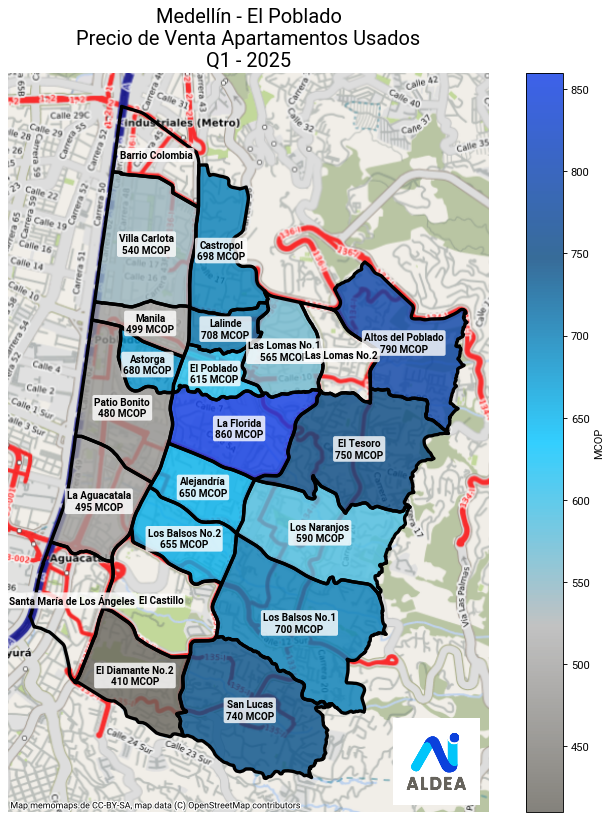
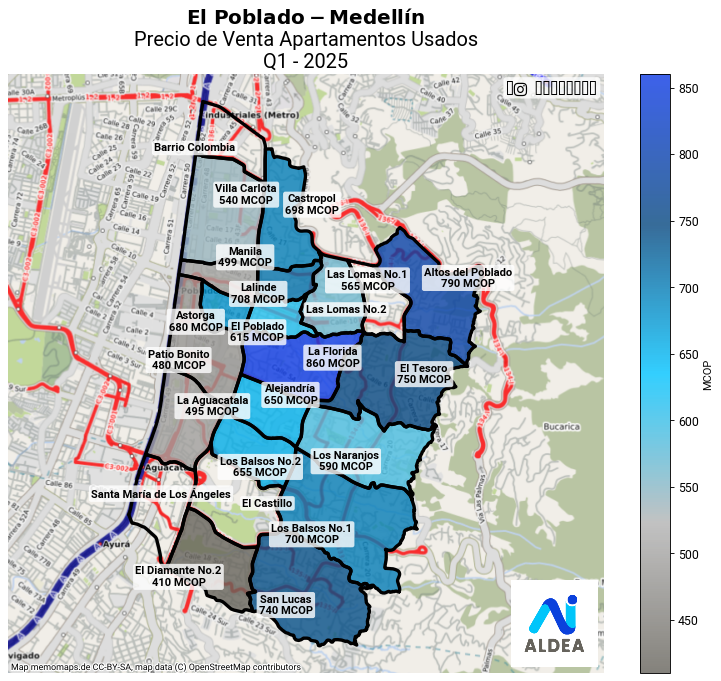
fixin aestetic details of median price poblado

diff --git a/src/DataVisualisation/VisualisationMedianPrice.py b/src/DataVisualisation/VisualisationMedianPrice.py
@@ -11,6 +11,8 @@ import numpy as np
 import matplotlib.ticker as mticker
 from matplotlib.colors import LinearSegmentedColormap
 from matplotlib.offsetbox import OffsetImage, AnnotationBbox
+from adjustText import adjust_text
+import matplotlib.image as mpimg
 
 
 
@@ -174,6 +176,14 @@ plot = gdf_4326_valid.plot(
 # Draw the edges of all neighborhoods (including those without data)
 gdf_4326.plot(facecolor='none', ax=ax, edgecolor='k', linewidth=3)
 
+#making the map square, for instagram
+xlim = ax.get_xlim()
+ylim = ax.get_ylim()
+x_mid = (xlim[1] + xlim[0])/2
+y_range = ylim[1] - ylim[0]
+ax.set_xlim(x_mid-0.5*y_range, x_mid+0.5*y_range)
+
+
 # Add the basemap tiles to the plot
 source = ctx.providers[map_provider]
 ctx.add_basemap(ax, crs=gdf_4326.crs.to_string(), source=source)
@@ -187,7 +197,17 @@ elif property_type == 'Offices':
     property_type_label = 'Oficinas Usadas'
 
 plt.rcParams.update({'axes.titlesize': 18})
-plt.title(f'Medellín - El Poblado\nPrecio de Venta {property_type_label}\nQ{quarter} - {year}')
+# plt.title(f'El Poblado - Medellín\nPrecio de Venta {property_type_label}\nQ{quarter} - {year}')
+title_string = (
+    r'$\bf{' f'El\ Poblado - Medellín' r'}$' + 
+    '\n' +
+    r'Precio de Venta ' f'{property_type_label}' + 
+    '\n' +
+    r'Q' f'{quarter}' r' - ' f'{year}'
+)
+
+
+plt.title(title_string)
 plt.axis('off')
 
 # Format the colorbar to show values in millions of COP
@@ -197,7 +217,29 @@ cbar.yaxis.set_major_formatter(mticker.FuncFormatter(lambda x, _: f'{x/1e6:.0f}'
 for c in cbar.collections:
     c.set_alpha(alpha_value)
 
-# Annotate each neighborhood with its name and median price (if available)
+# Set the size of the numbers in the colorbar
+cbar.tick_params(labelsize=11)
+
+# Adjust colorbar height to match the y-axis range
+cbar = plot.get_figure().axes[-1]
+fig = plot.get_figure()
+# Get position of the main axis and colorbar axis
+ax_pos = ax.get_position()
+cbar_pos = cbar.get_position()
+# Set colorbar height to match the main axis height (ylim)
+cbar.set_position([
+    cbar_pos.x0,
+    ax_pos.y0,
+    cbar_pos.width,
+    ax_pos.height
+])
+
+# Import adjust_text for text overlap prevention
+
+# Create list to store text annotations
+texts = []
+
+# Create annotations for each neighborhood
 for idx, row in gdf_4326.iterrows():
     centroid = row['geometry'].centroid
     neighbourhood_name = row['nombre']
@@ -207,39 +249,67 @@ for idx, row in gdf_4326.iterrows():
         label = f'{neighbourhood_name}\n{value:,.0f} MCOP'
     else:
         label = f'{neighbourhood_name}'
-    ax.annotate(
+    
+    text = ax.text(
+        centroid.x, centroid.y,
         label,
-        (centroid.x, centroid.y),
         color='black',
-        fontsize=9,
+        fontsize=10,
         ha='center',
         va='center',
         fontweight='bold',
         bbox=dict(facecolor='white', alpha=alpha_value, edgecolor='none', boxstyle='round,pad=0.2')
     )
+    texts.append(text)
 
-    # Add a logo to the bottom left of the plot
-    import matplotlib.image as mpimg
+# Adjust text positions to prevent overlap
+adjust_text(
+    texts,
+    force_points=0.2,
+    force_text=0.5,
+    expand_points=(1.2, 1.2),
+    expand_text=(1.2, 1.2),
+    # arrowprops=dict(arrowstyle="-", color='gray', lw=0.5)
+)
 
-    logo_path = 'Inputs/LogoOriginal.png'
-    logo_img = mpimg.imread(logo_path)
-    imagebox = OffsetImage(logo_img, zoom=0.3)  # Adjust zoom as needed
+# Add a logo to the bottom left of the plot
+logo_path = 'Inputs/LogoOriginal.png'
+logo_img = mpimg.imread(logo_path)
+imagebox = OffsetImage(logo_img, zoom=0.3)  # Adjust zoom as needed
 
-    # Position: (x0, y0) in axes fraction coordinates (0,0 is bottom left)
-    ab = AnnotationBbox(
-        imagebox,
-        (0.8, 0.01),  # Adjust as needed for position
-        xycoords='axes fraction',
-        frameon=False,
-        box_alignment=(0, 0)
-    )
-    ax.add_artist(ab)
+# Position: (x0, y0) in axes fraction coordinates (0,0 is bottom left)
+ab = AnnotationBbox(
+    imagebox,
+    (0.845, 0.01),  # Adjust as needed for position
+    xycoords='axes fraction',
+    frameon=False,
+    box_alignment=(0, 0)
+)
+ax.add_artist(ab)
+
+# Add "@AldeaAI" text to top right corner
+# Add Instagram logo (using unicode character) and @AldeaAI text
+ax.text(
+    0.99, 0.99,
+    '\u2002\uf16d  @AldeaAI',  # Unicode for Instagram logo + text
+    transform=ax.transAxes,
+    fontsize=14,
+    fontweight='bold',
+    color='black',
+    ha='right',
+    va='top',
+    bbox=dict(facecolor='white', alpha=alpha_value, edgecolor='none', boxstyle='round,pad=0.2'),
+    fontname='FontAwesome'  # Requires FontAwesome font to be installed
+)
+
 # Display the plot
 # plt.show()
+
 
 # Save the plot to a file
 filename = f'{year}_Q{quarter}_median_price_{property_type}_ElPoblado_map.png'
 fig.savefig(f'../../DataVisualisation/{filename}', dpi=80, bbox_inches='tight')
+# fig.savefig(f'../../DataVisualisation/{filename}', dpi=80)
 
 
 
